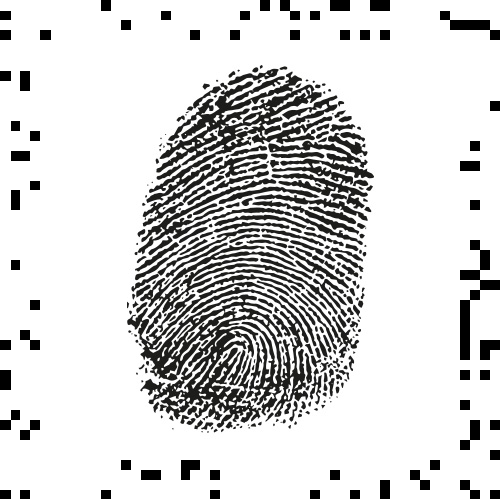
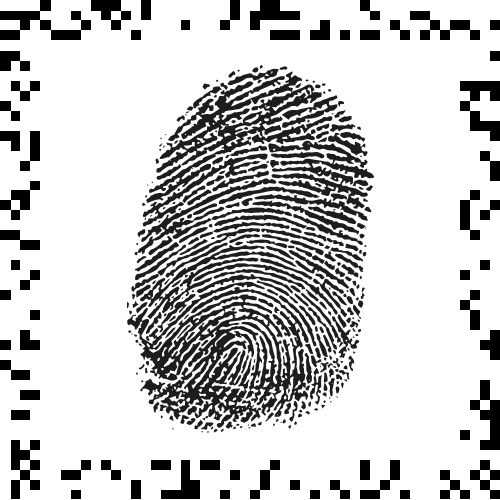
req

diff --git a/templates/result.html b/templates/result.html
@@ -9,7 +9,7 @@
   <h1>Fingersign</h1>
 
   <h2>Result</h2>
-  <img src="static/out.png" />
+  <img src="./static/out.png" />
   <br /><br /><br />
   <a href="/"><button type="button" class="btn btn-primary">Regenerate</button></a>
 

diff --git a/fingersign.py b/fingersign.py
@@ -33,13 +33,13 @@ def create_app(configfile=None):
     def result():
         data = request.form['companyName']
         
-        g = FCodeGenerator(image_size=50, image_border=4, density=100)
+        g = FCodeGenerator(image_size=50, image_border=4, density=200)
         filepath = 'test.png'
         image = g.make()
         image.save(filepath)
         img = Image.open(filepath).resize((500,500))
         img.save(filepath)
-        g.merge_pictures(filepath, "finger.png", "static\out.png")
+        g.merge_pictures(filepath, "finger.png", "static/out.png")
             
         return render_template('result.html')
 
